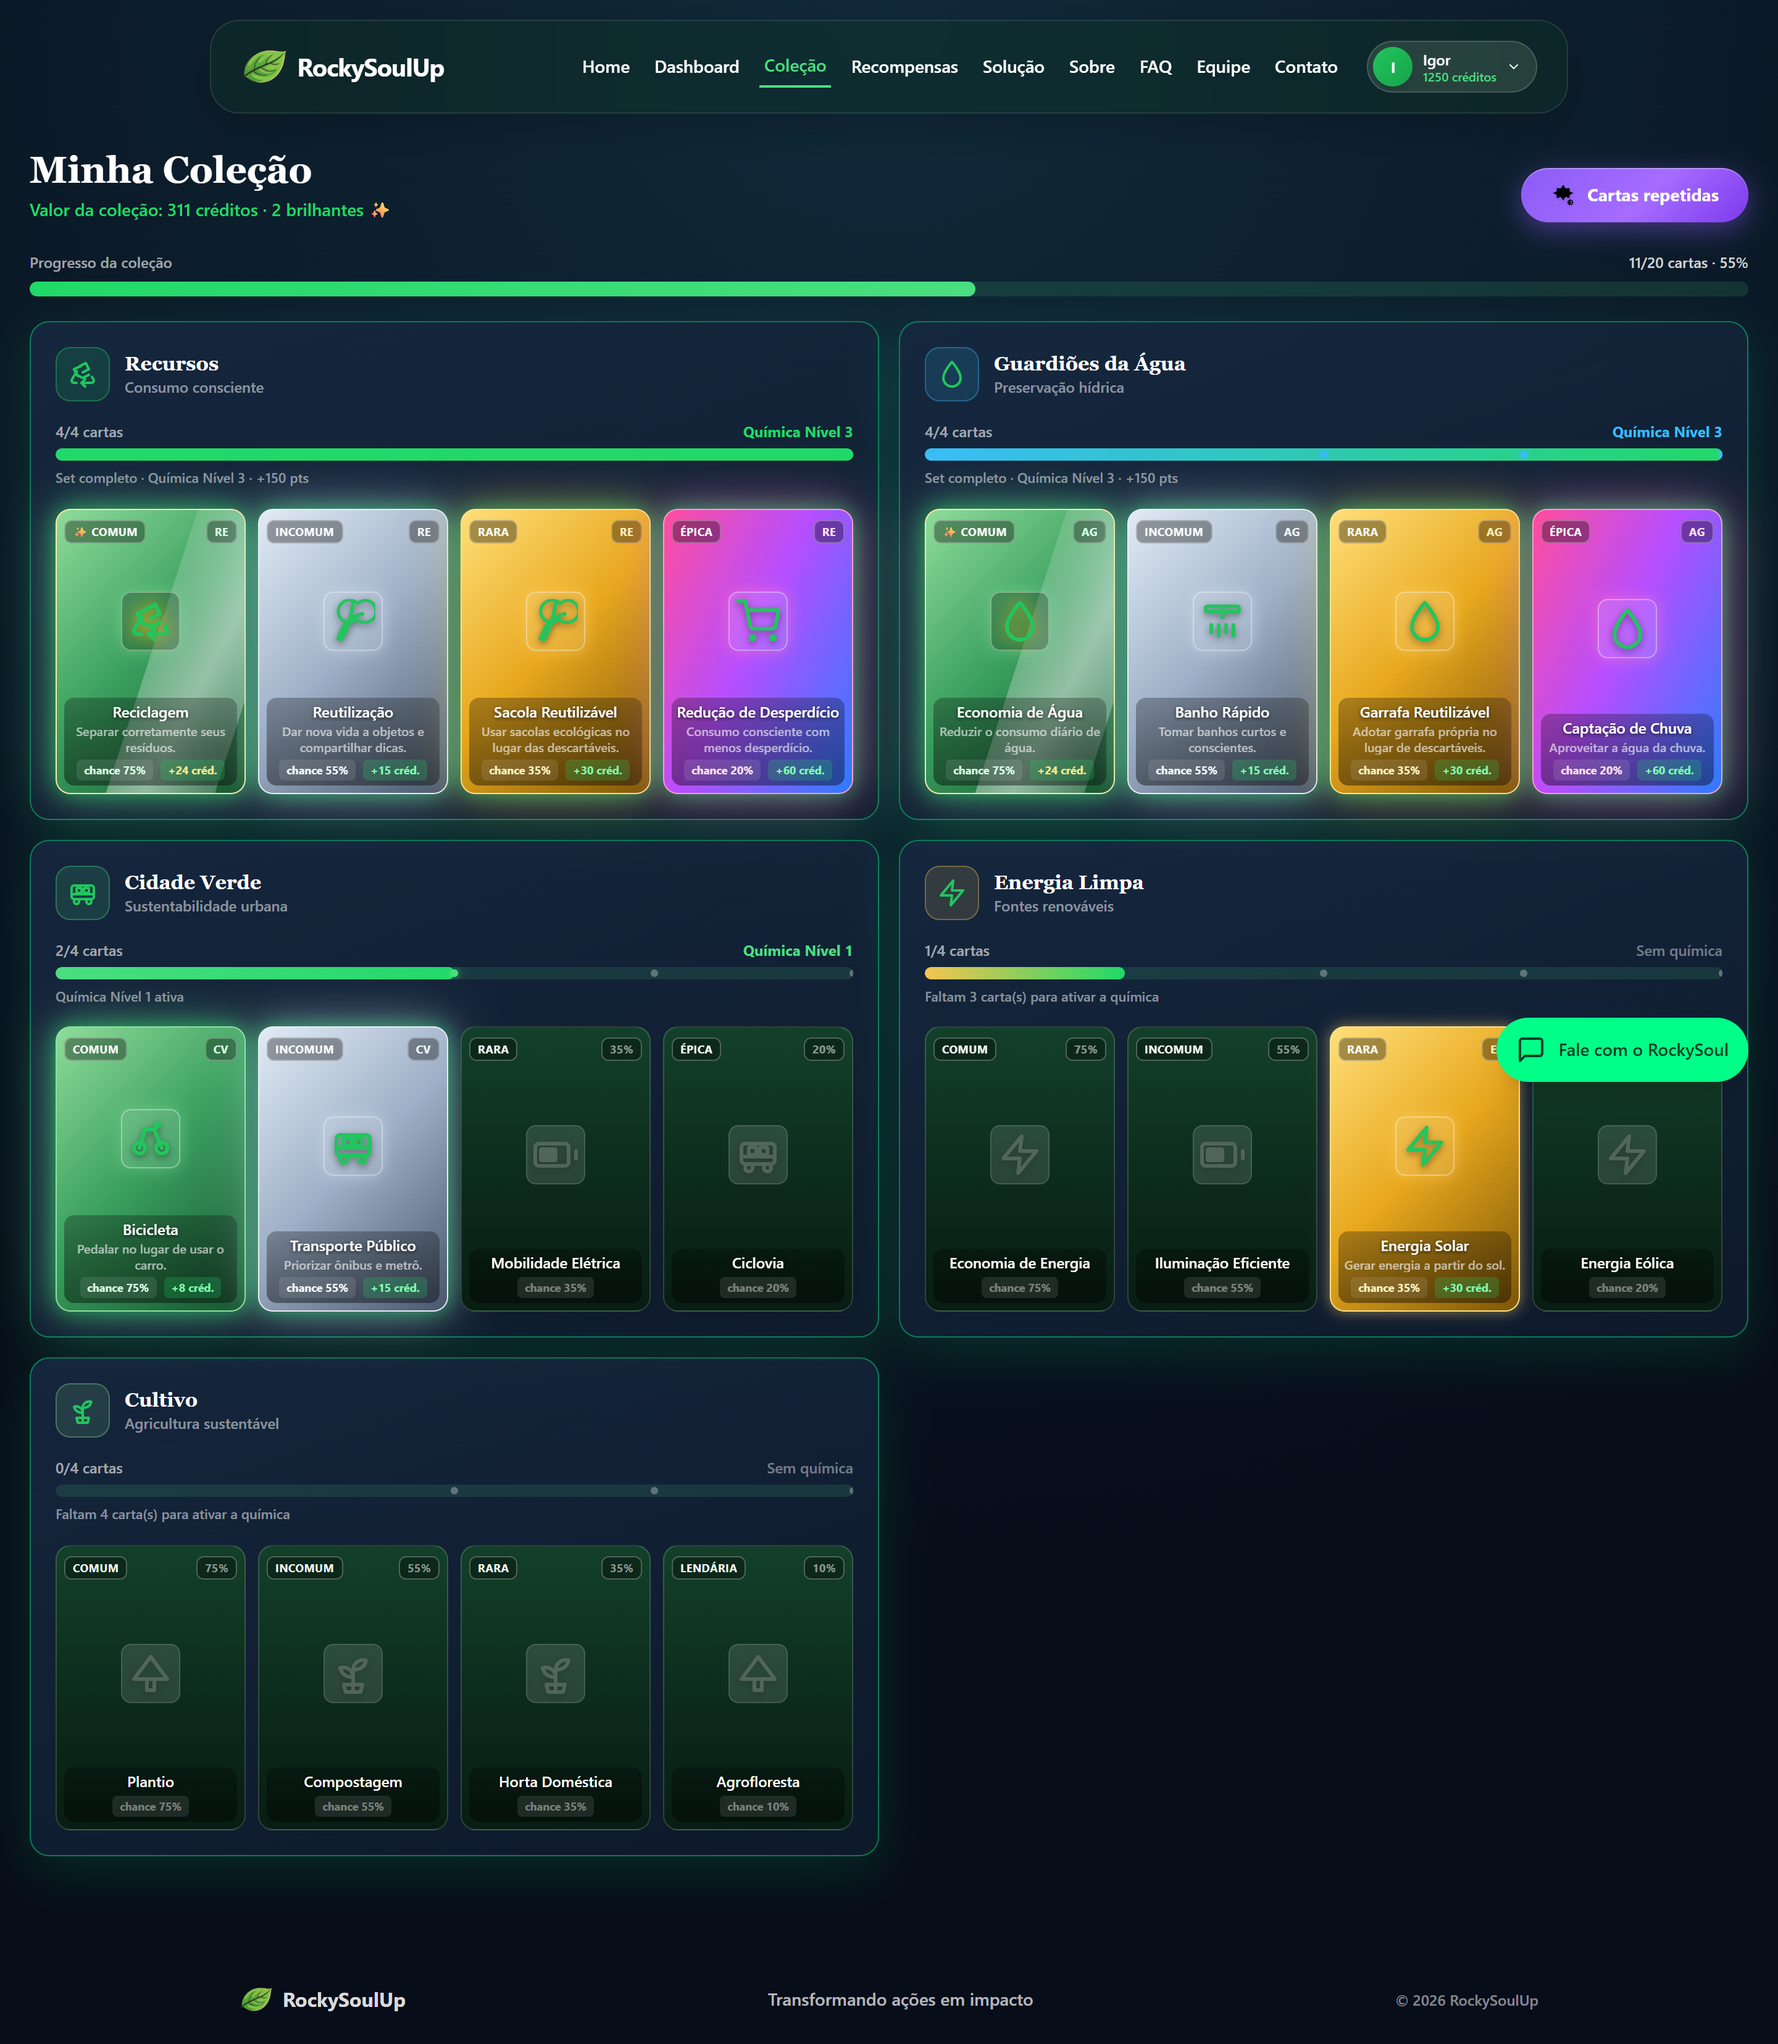
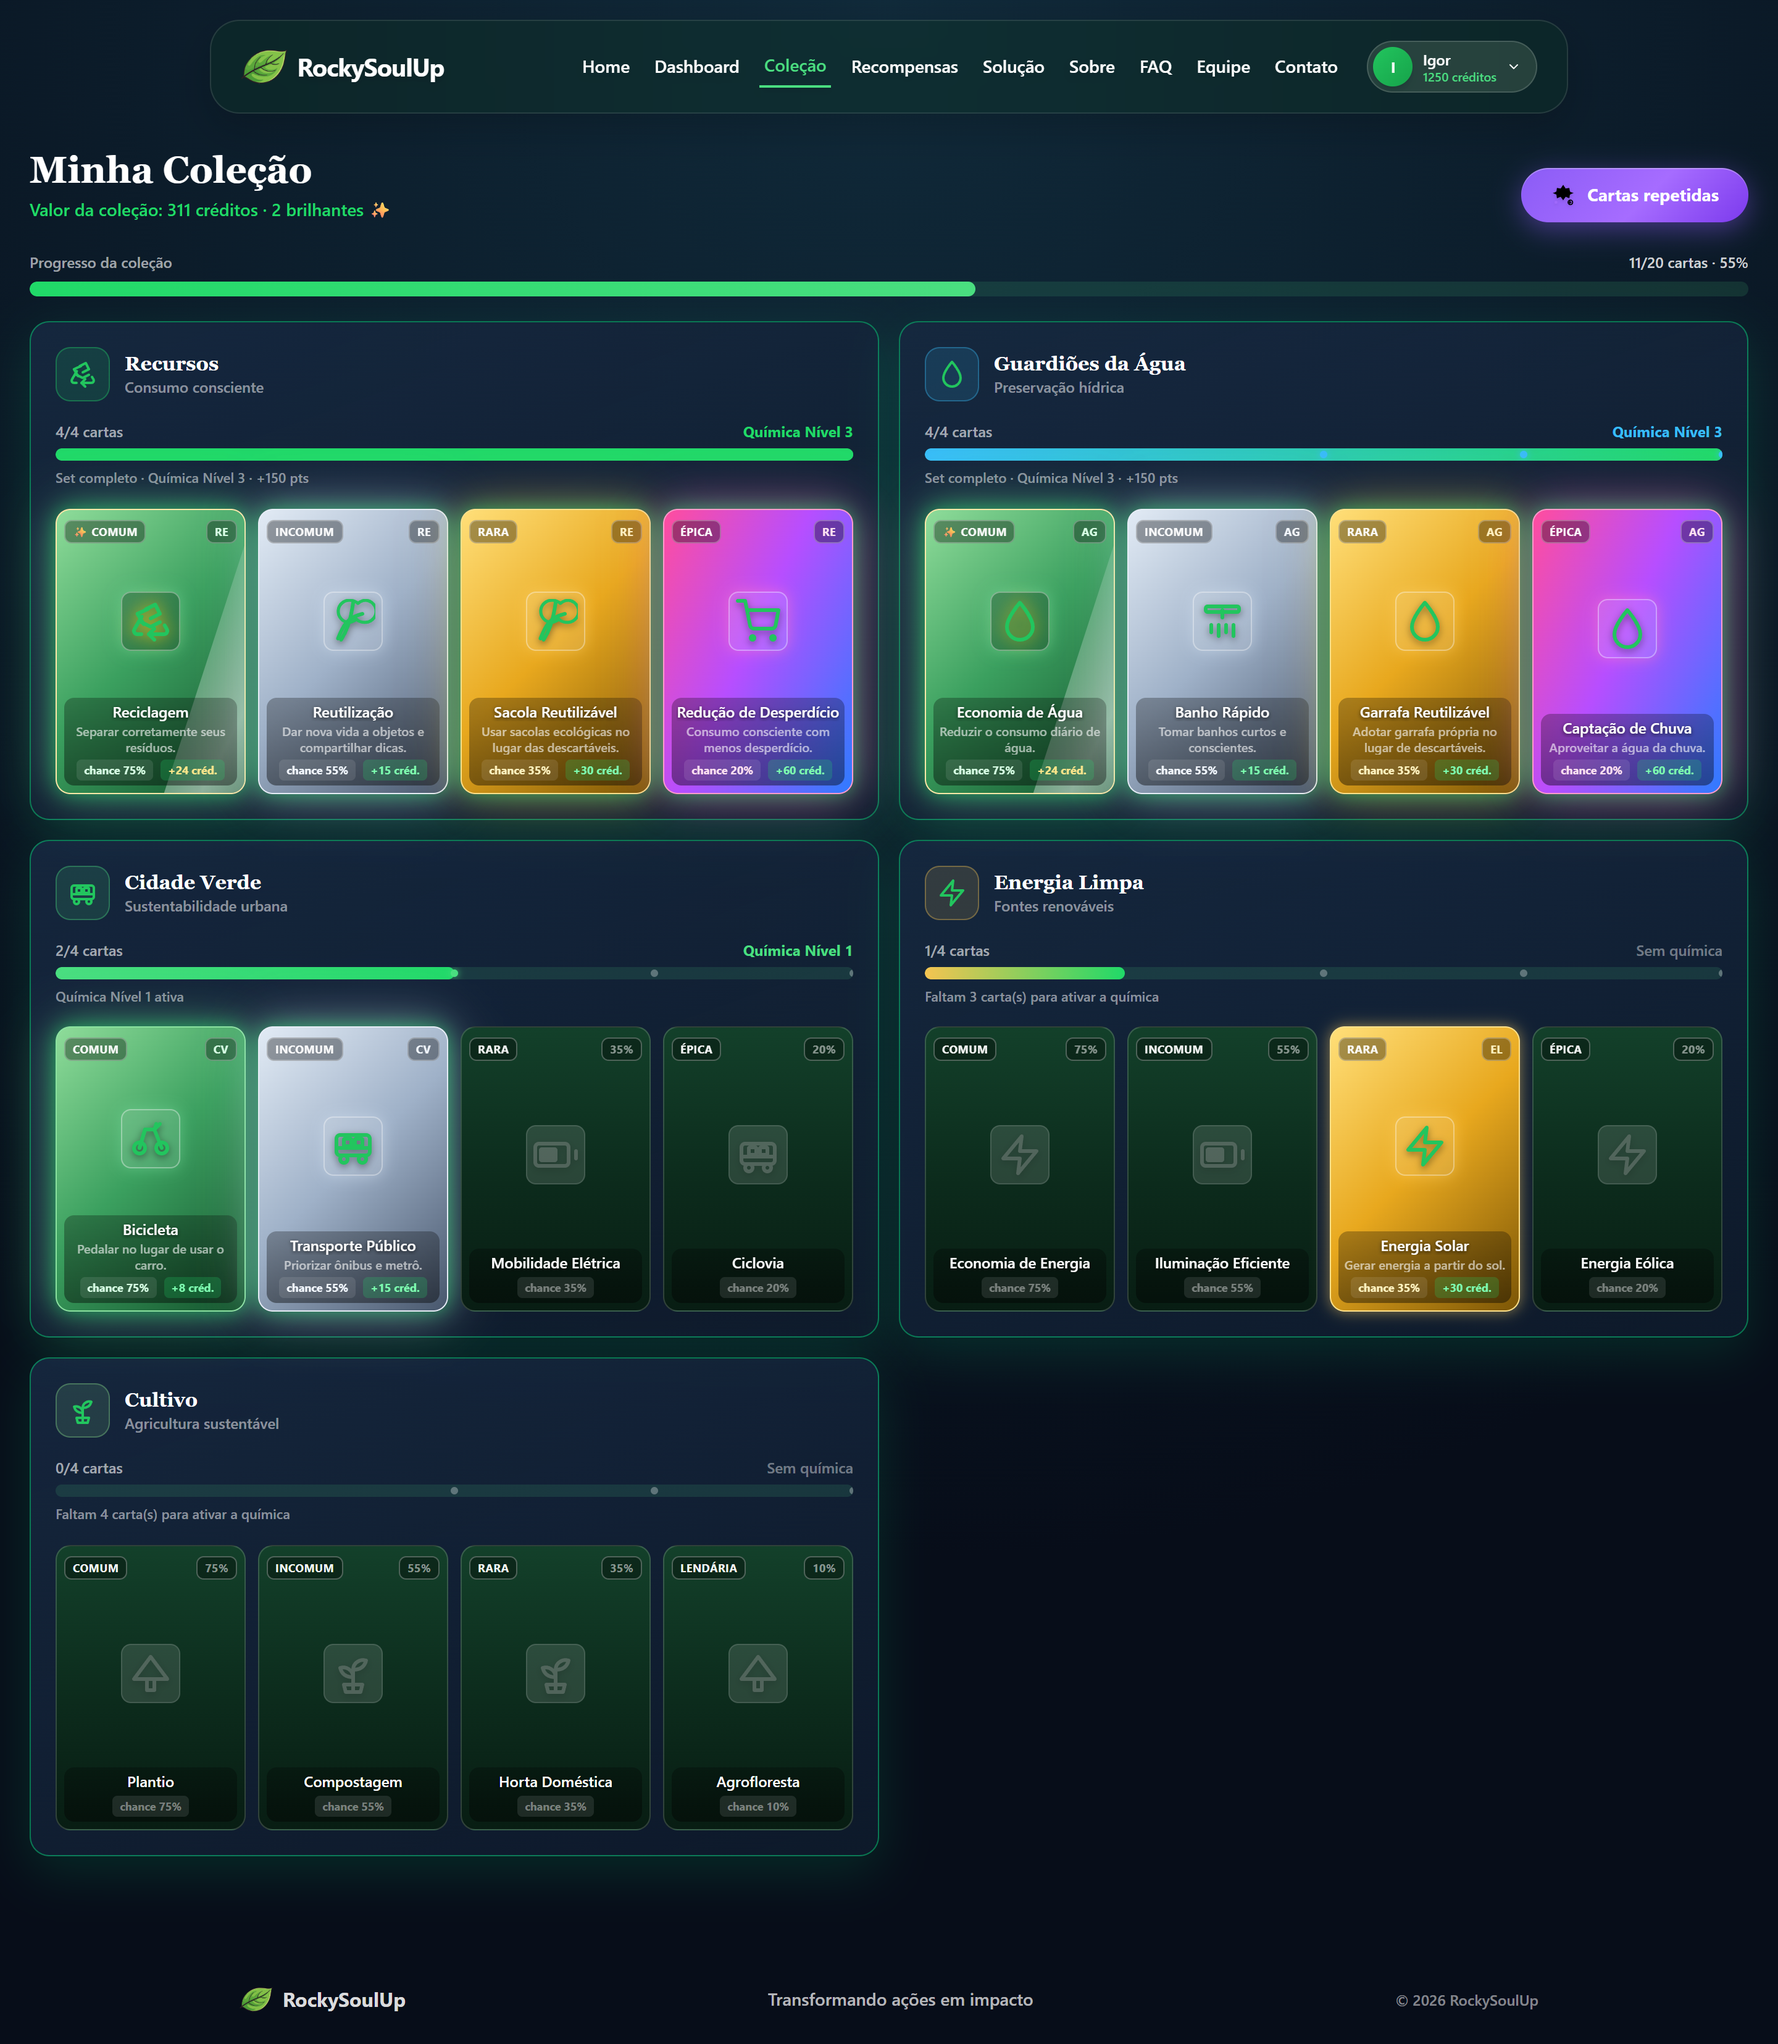
Esconde o chat nas capturas via parâmetro ?print (o botão continuava aparecendo solto no meio das telas) e move o Conversor de Créditos pra baixo da Trilha de Evolução e do Impacto Ambiental na página de Recompensas. Prints atualizados

Changed region(s): [[0.0625, 0.2489, 0.1562, 0.4045], [0.5312, 0.2489, 0.625, 0.4045], [0.8438, 0.4979, 1.0, 0.529]]

diff --git a/src/pages/Recompensas.tsx b/src/pages/Recompensas.tsx
@@ -113,6 +113,70 @@ export function Recompensas() {
           })}
         </div>
 
+        <div className="grid grid-cols-1 lg:grid-cols-2 gap-4 mb-12">
+          <div className="card-secondary rounded-2xl p-5">
+            <div className="flex items-center justify-between mb-4">
+              <p className="text-white/55 text-[11px] uppercase tracking-widest">Trilha de Evolução</p>
+              <span className="text-[#4ade80] text-sm font-bold">{nivel}</span>
+            </div>
+            <div className="flex flex-col gap-3">
+              {SELOS.map((l, i, arr) => {
+                const unlocked = data.pontos >= l.minPontos;
+                const active = nivel === l.nome;
+                return (
+                  <div key={l.id} className="flex items-center gap-3.5 relative">
+                    {i < arr.length - 1 && (
+                      <div className="absolute left-4.5 top-9 w-px h-5" style={{ background: unlocked ? 'rgba(74,222,128,0.4)' : 'rgba(255,255,255,0.06)' }} />
+                    )}
+                    <div
+                      className="w-9 h-9 rounded-full flex items-center justify-center shrink-0 transition-all"
+                      style={{
+                        background: active ? 'linear-gradient(135deg,#4ade80,#22c55e)' : unlocked ? 'rgba(74,222,128,0.12)' : 'rgba(255,255,255,0.04)',
+                        border: active ? 'none' : unlocked ? '1px solid rgba(74,222,128,0.3)' : '1px solid rgba(255,255,255,0.06)',
+                        filter: unlocked ? 'none' : 'grayscale(1)',
+                        opacity: unlocked ? 1 : 0.35,
+                      }}
+                    >
+                      <img src={l.icone} className="w-5 h-5" alt="" />
+                    </div>
+                    <div className="min-w-0 flex-1">
+                      <p className={`text-sm font-semibold ${active ? 'text-green-300' : unlocked ? 'text-white/75' : 'text-white/35'}`}>{l.nome}</p>
+                      <p className="text-white/35 text-[11px]">{l.descricao} · {l.minPontos} pts</p>
+                    </div>
+                    {active && <span className="text-[11px] text-green-400 font-semibold">atual</span>}
+                  </div>
+                );
+              })}
+            </div>
+          </div>
+
+          <div className="card-secondary rounded-2xl p-5">
+            <p className="text-white/55 text-[11px] uppercase tracking-widest mb-4">Impacto Ambiental</p>
+            <div className="grid grid-cols-3 gap-2.5 mb-4">
+              {[
+                { icon: '/icons/folha.svg', label: 'kg CO₂ evitado', value: totalCO2.toFixed(1) },
+                { icon: '/icons/arvore.svg', label: 'Árvores equiv.', value: arvoresEquiv },
+                { icon: '/icons/semente.svg', label: 'Dias seguidos', value: `${data.streak}d` },
+              ].map(m => (
+                <div key={m.label} className="text-center rounded-2xl py-4 px-2" style={{ background: 'rgba(74,222,128,0.05)', border: '1px solid rgba(74,222,128,0.1)' }}>
+                  <img src={m.icon} className="w-6 h-6 mx-auto" alt="" />
+                  <p className="text-green-300 font-bold mt-1.5 font-serif-display" style={{ fontSize: 20 }}>{m.value}</p>
+                  <p className="text-white/45 text-[10px] mt-0.5">{m.label}</p>
+                </div>
+              ))}
+            </div>
+            <div className="rounded-2xl p-4" style={{ background: 'rgba(255,255,255,0.04)', border: '1px solid rgba(255,255,255,0.08)' }}>
+              <p className="text-sm text-white/70 font-medium">Ações registradas</p>
+              <p className="text-white/40 text-xs mt-0.5 leading-relaxed">
+                Cada ação registrada conta como CO₂ evitado e aproxima você dos selos da trilha.
+              </p>
+              <p className="text-[#4ade80] font-bold mt-2 font-serif-display" style={{ fontSize: 22 }}>
+                {data.historico.length} <span className="text-[11px] font-medium opacity-60">ações</span>
+              </p>
+            </div>
+          </div>
+        </div>
+
         <div className="card-secondary rounded-2xl p-5 sm:p-6 mb-12">
           <div className="grid grid-cols-1 lg:grid-cols-[1fr_1.1fr] gap-6 items-start">
             <div>
@@ -224,70 +288,6 @@ export function Recompensas() {
                 </p>
               </div>
             )}
-          </div>
-        </div>
-
-        <div className="grid grid-cols-1 lg:grid-cols-2 gap-4 mb-12">
-          <div className="card-secondary rounded-2xl p-5">
-            <div className="flex items-center justify-between mb-4">
-              <p className="text-white/55 text-[11px] uppercase tracking-widest">Trilha de Evolução</p>
-              <span className="text-[#4ade80] text-sm font-bold">{nivel}</span>
-            </div>
-            <div className="flex flex-col gap-3">
-              {SELOS.map((l, i, arr) => {
-                const unlocked = data.pontos >= l.minPontos;
-                const active = nivel === l.nome;
-                return (
-                  <div key={l.id} className="flex items-center gap-3.5 relative">
-                    {i < arr.length - 1 && (
-                      <div className="absolute left-4.5 top-9 w-px h-5" style={{ background: unlocked ? 'rgba(74,222,128,0.4)' : 'rgba(255,255,255,0.06)' }} />
-                    )}
-                    <div
-                      className="w-9 h-9 rounded-full flex items-center justify-center shrink-0 transition-all"
-                      style={{
-                        background: active ? 'linear-gradient(135deg,#4ade80,#22c55e)' : unlocked ? 'rgba(74,222,128,0.12)' : 'rgba(255,255,255,0.04)',
-                        border: active ? 'none' : unlocked ? '1px solid rgba(74,222,128,0.3)' : '1px solid rgba(255,255,255,0.06)',
-                        filter: unlocked ? 'none' : 'grayscale(1)',
-                        opacity: unlocked ? 1 : 0.35,
-                      }}
-                    >
-                      <img src={l.icone} className="w-5 h-5" alt="" />
-                    </div>
-                    <div className="min-w-0 flex-1">
-                      <p className={`text-sm font-semibold ${active ? 'text-green-300' : unlocked ? 'text-white/75' : 'text-white/35'}`}>{l.nome}</p>
-                      <p className="text-white/35 text-[11px]">{l.descricao} · {l.minPontos} pts</p>
-                    </div>
-                    {active && <span className="text-[11px] text-green-400 font-semibold">atual</span>}
-                  </div>
-                );
-              })}
-            </div>
-          </div>
-
-          <div className="card-secondary rounded-2xl p-5">
-            <p className="text-white/55 text-[11px] uppercase tracking-widest mb-4">Impacto Ambiental</p>
-            <div className="grid grid-cols-3 gap-2.5 mb-4">
-              {[
-                { icon: '/icons/folha.svg', label: 'kg CO₂ evitado', value: totalCO2.toFixed(1) },
-                { icon: '/icons/arvore.svg', label: 'Árvores equiv.', value: arvoresEquiv },
-                { icon: '/icons/semente.svg', label: 'Dias seguidos', value: `${data.streak}d` },
-              ].map(m => (
-                <div key={m.label} className="text-center rounded-2xl py-4 px-2" style={{ background: 'rgba(74,222,128,0.05)', border: '1px solid rgba(74,222,128,0.1)' }}>
-                  <img src={m.icon} className="w-6 h-6 mx-auto" alt="" />
-                  <p className="text-green-300 font-bold mt-1.5 font-serif-display" style={{ fontSize: 20 }}>{m.value}</p>
-                  <p className="text-white/45 text-[10px] mt-0.5">{m.label}</p>
-                </div>
-              ))}
-            </div>
-            <div className="rounded-2xl p-4" style={{ background: 'rgba(255,255,255,0.04)', border: '1px solid rgba(255,255,255,0.08)' }}>
-              <p className="text-sm text-white/70 font-medium">Ações registradas</p>
-              <p className="text-white/40 text-xs mt-0.5 leading-relaxed">
-                Cada ação registrada conta como CO₂ evitado e aproxima você dos selos da trilha.
-              </p>
-              <p className="text-[#4ade80] font-bold mt-2 font-serif-display" style={{ fontSize: 22 }}>
-                {data.historico.length} <span className="text-[11px] font-medium opacity-60">ações</span>
-              </p>
-            </div>
           </div>
         </div>
 

diff --git a/src/App.tsx b/src/App.tsx
@@ -17,6 +17,8 @@ import { Colecao } from './pages/Colecao';
 import Chat from './components/Chat';
 
 export default function App() {
+  const ehModoPrint = new URLSearchParams(window.location.search).has('print');
+
   return (
     <DataProvider>
       <CollectionProvider>
@@ -37,7 +39,7 @@ export default function App() {
                 <Route path="*" element={<Home />} />
               </Route>
             </Routes>
-            <Chat />
+            {!ehModoPrint && <Chat />}
             <ToastContainer />
           </div>
         </ChatProvider>
